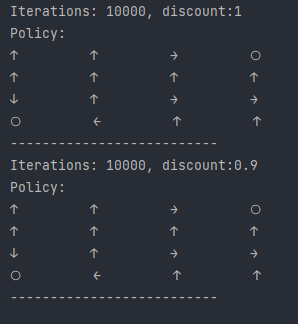
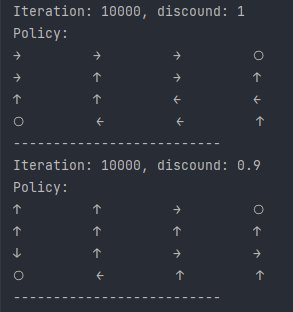
SarsaMax done and img uploaded

diff --git a/assignment_2/Agent.py b/assignment_2/Agent.py
@@ -7,20 +7,17 @@ from assignment_2.Policy import Policy
 
 
 class Agent:
-    def __init__(self, start_state, discount:float = 1, iteratie:int = 10000):
-        self.policy = Policy()
+    def __init__(self, start_state, discount: float = 1, iteratie: int = 10000):
+        self.policy = Policy(discount)
         self.maze = Maze()
         self.state = start_state
         self.discount = discount
         self.iteratie = iteratie
-        # self.optimal_policy = Agent(start_state).value_iteration()
-        self.optimal_policy = [[1, 1, 1, 4],
-                               [0, 0, 0, 0],
-                               [0, 0, 3, 3],
-                               [4, 0, 0, 0]]
 
     def value_function(self) -> None:
-        """This is the value function."""
+        """
+        This is the value function.
+        """
         location = self.state[0]
         table_for_next_loc = self.create_action_list(location)
         value = 0
@@ -38,26 +35,31 @@ class Agent:
         potential_actions = [[-1, 0], [0, 1], [1, 0], [0, -1]]
         for i in range(self.iteratie):
             discount = self.discount ** i
-            new_value_list = [[0, 0, 0, 0],     # Is to save the new values so that the old values can be used for
-                              [0, 0, 0, 0],     # the calculations.
+            new_value_list = [[0, 0, 0, 0],  # Is to save the new values so that the old values can be used for
+                              [0, 0, 0, 0],  # the calculations.
                               [0, 0, 0, 0],
                               [0, 0, 0, 0]]
-            for location in self.maze.locations:    # Loops through all states
-                actions = self.create_action_list(location) # Creates all possible action you van make in a state.
-                new_values = []     # List of all generated values.
+            for location in self.maze.locations:  # Loops through all states
+                actions = self.create_action_list(location)  # Creates all possible action you van make in a state.
+                new_values = []  # List of all generated values.
                 for action in actions:  # Loops through all possible actions.
 
                     next_loc = list(map(lambda x, y: x + y, location, action))
-                    new_values.append(self.maze.rewards[next_loc[0]][next_loc[1]] + discount * self.maze.value[next_loc[0]][next_loc[1]])
+                    new_values.append(
+                        self.maze.rewards[next_loc[0]][next_loc[1]] + discount * self.maze.value[next_loc[0]][
+                            next_loc[1]])
                 if not self.maze.done_list[location[0]][location[1]]:
                     max_value = max(new_values)
-                    new_value_list[location[0]][location[1]] = max_value    # Updates the value for the current state with the optimal value
-                    new_best_action = potential_actions.index(actions[new_values.index(max_value)])     # Selects the best action
-                    self.policy.actions_list[location[0]][location[1]] = new_best_action    # Saves the best possible action.
-            if new_value_list == self.maze.value:       # Breaks the loop if there are no more changes
+                    new_value_list[location[0]][
+                        location[1]] = max_value  # Updates the value for the current state with the optimal value
+                    new_best_action = potential_actions.index(
+                        actions[new_values.index(max_value)])  # Selects the best action
+                    self.policy.actions_list[location[0]][
+                        location[1]] = new_best_action  # Saves the best possible action.
+            if new_value_list == self.maze.value:  # Breaks the loop if there are no more changes
                 print(self.policy.__str__(self.policy.actions_list))
                 break
-            self.maze.value = new_value_list    # Updates value list.
+            self.maze.value = new_value_list  # Updates value list.
             self.action()
             self.__str__()
         return self.policy.actions_list
@@ -66,11 +68,11 @@ class Agent:
         """
         This is the monte carlo evaluation.
         """
-        values = [[0, 0, 0, 0],         # New values.
-                       [0, 0, 0, 0],
-                       [0, 0, 0, 0],
-                       [0, 0, 0, 0]]
-        value_times = [[0, 0, 0, 0],    # Times this state has been used for calculations.
+        values = [[0, 0, 0, 0],  # New values.
+                  [0, 0, 0, 0],
+                  [0, 0, 0, 0],
+                  [0, 0, 0, 0]]
+        value_times = [[0, 0, 0, 0],  # Times this state has been used for calculations.
                        [0, 0, 0, 0],
                        [0, 0, 0, 0],
                        [0, 0, 0, 0]]
@@ -78,15 +80,17 @@ class Agent:
             g = 0
             episodes = self.create_episode()
             discount = self.discount ** i
-            check = list(reversed(list(episodes.copy())))   # copy of episodes for checking purposes.
+            check = list(reversed(list(episodes.copy())))  # copy of episodes for checking purposes.
             for episode in reversed(list(episodes)):
                 state, action, reward = episode
                 x, y = state
-                check.remove(episode)   # removes state to check if there are more of the same states in the episodes
+                check.remove(episode)  # removes state to check if there are more of the same states in the episodes
                 g = discount * g + reward
-                if (check is None or episode not in check) and not self.maze.done_list[x][y]:   # is none is for the last state
+                if (check is None or episode not in check) and not self.maze.done_list[x][
+                    y]:  # is none is for the last state
                     value_times[x][y] += 1  # Add 1 to the times this state has been used for calculations
-                    values[x][y] = values[x][y] + (g-values[x][y])/value_times[x][y]    # Formula to add a number to a calculated average.
+                    values[x][y] = values[x][y] + (g - values[x][y]) / value_times[x][
+                        y]  # Formula to add a number to a calculated average.
         self.maze.value = values
         self.__str__()
 
@@ -95,17 +99,19 @@ class Agent:
             Temperal differance learning.
         """
         alpha = 1
+
         for i in range(self.iteratie):
             x, y = [random.randint(0, 3), random.randint(0, 3)]  # For random start
-            discount = self.discount ** i   # calculating discount
+            discount = self.discount ** i  # calculating discount
             while not self.maze.done_list[x][y]:
                 # action = random.randint(0, 3)       # for random policy
-                action = self.optimal_policy[x][y]  # for optimal policy
-                next_state, reward = self.maze.step([x,y], action)
+                action = self.policy.actions_list_optimal[x][y]  # for optimal policy
+                next_state, reward = self.maze.step([x, y], action)
                 current_val = self.maze.value[x][y]
                 next_val = self.maze.value[next_state[0]][next_state[1]]
-                self.maze.value[x][y] = current_val + alpha *(reward + discount*next_val - current_val)     # update value
-                x, y = next_state       # change x, y coordinates to the ones from the next state
+                self.maze.value[x][y] = current_val + alpha * (
+                            reward + discount * next_val - current_val)  # update value
+                x, y = next_state  # change x, y coordinates to the ones from the next state
         self.__str__()
 
     def monte_carlo_control(self) -> None:  # TODO
@@ -123,29 +129,31 @@ class Agent:
                        [0, 0, 0, 0],
                        [0, 0, 0, 0],
                        [0, 0, 0, 0]]
-        value_times_all_actions = [[[0, 0, 0, 0], [0, 0, 0, 0], [0, 0, 0, 0], [0, 0, 0, 0]],    # TODO remove if unnecessary
-                       [[0, 0, 0, 0], [0, 0, 0, 0], [0, 0, 0, 0], [0, 0, 0, 0]],
-                       [[0, 0, 0, 0], [0, 0, 0, 0], [0, 0, 0, 0], [0, 0, 0, 0]],
-                       [[0, 0, 0, 0], [0, 0, 0, 0], [0, 0, 0, 0], [0, 0, 0, 0]]]
+        value_times_all_actions = [[[0, 0, 0, 0], [0, 0, 0, 0], [0, 0, 0, 0], [0, 0, 0, 0]],
+                                   # TODO remove if unnecessary
+                                   [[0, 0, 0, 0], [0, 0, 0, 0], [0, 0, 0, 0], [0, 0, 0, 0]],
+                                   [[0, 0, 0, 0], [0, 0, 0, 0], [0, 0, 0, 0], [0, 0, 0, 0]],
+                                   [[0, 0, 0, 0], [0, 0, 0, 0], [0, 0, 0, 0], [0, 0, 0, 0]]]
         for i in range(self.iteratie):
-            g = 0   # start g
-            episodes = self.create_episode(epsilon=epsilon) # create episode
-            discount = self.discount ** i   # calculates the discount
-            check = list(reversed(list(episodes.copy())))   # copy of episodes for checking purposes
+            g = 0  # start g
+            episodes = self.create_episode(epsilon=epsilon)  # create episode
+            discount = self.discount ** i  # calculates the discount
+            check = list(reversed(list(episodes.copy())))  # copy of episodes for checking purposes
             for episode in reversed(list(episodes)):
                 state, action, reward = episode
                 x, y = state
-                check.remove(episode) # removes state to check if there are more of the same states in the episodes
+                check.remove(episode)  # removes state to check if there are more of the same states in the episodes
 
-                g = discount * g + reward       # calculate new g
+                g = discount * g + reward  # calculate new g
                 if (check is None or episode not in check) and not self.maze.done_list[x][
                     y]:  # is none is for the last state
-                    value_times[x][y] += 1 # Add 1 to the times this state has been used for calculations
-                    values[x][y] = values[x][y] + (g - values[x][y]) / value_times[x][y] # Formula to add a number to a calculated average.
+                    value_times[x][y] += 1  # Add 1 to the times this state has been used for calculations
+                    values[x][y] = values[x][y] + (g - values[x][y]) / value_times[x][
+                        y]  # Formula to add a number to a calculated average.
         self.maze.value = values
         self.__str__()
 
-    def sarsa(self) -> None:    # TODO
+    def sarsa(self) -> None:  # TODO
         """
         This is a SARSA function for policy control.
         """
@@ -160,20 +168,49 @@ class Agent:
         for i in range(self.iteratie):
             x, y = [random.randint(0, 3), random.randint(0, 3)]  # For random start
             discount = self.discount ** i  # calculating discount
-            action = self.soft_policy(self.policy.actions_list2[x][y])
+            action = self.soft_policy(self.policy.actions_list2[x][y], epsilon)
             while not self.maze.done_list[x][y]:
                 # action = self.optimal_policy[x][y]  # for optimal policy
                 if action in possible_actions:
                     next_state, reward = self.maze.step([x, y], action)
                     next_action = self.soft_policy(policy[next_state[0]][next_state[1]])
                     current_val = policy[x][y][action]
-                    next_val = self.maze.value[next_state[0]][next_state[1]]
+                    next_val = policy[next_state[0]][next_state[1]][next_action]
                     policy[x][y][action] = current_val + alpha * (reward + discount * next_val - current_val)
                     x, y = next_state
                     action = next_action
         self.policy.__str__(self.policy.actions_list2)
 
-    def create_episode(self, epsilon:int = 100) -> [list, int, int]:
+    def sarsa_max(self):
+        """
+        This is a SARSA Max/Q learning function for policy control.
+        """
+        alpha = 1
+        possible_actions = [0, 1, 2, 3]
+        epsilon = 93
+        policy = self.policy.actions_list2
+        values_list = [[[0, 0, 0, 0], [0, 0, 0, 0], [0, 0, 0, 0], [0, 0, 0, 0]],
+                       [[0, 0, 0, 0], [0, 0, 0, 0], [0, 0, 0, 0], [0, 0, 0, 0]],
+                       [[0, 0, 0, 0], [0, 0, 0, 0], [0, 0, 0, 0], [0, 0, 0, 0]],
+                       [[0, 0, 0, 0], [0, 0, 0, 0], [0, 0, 0, 0], [0, 0, 0, 0]]]
+        for i in range(self.iteratie):
+            x, y = [random.randint(0, 3), random.randint(0, 3)]  # For random start
+            discount = self.discount ** i  # calculating discount
+            action = self.soft_policy(self.policy.actions_list2[x][y], epsilon)
+            while not self.maze.done_list[x][y]:
+                # action = self.optimal_policy[x][y]  # for optimal policy
+                if action in possible_actions:
+                    next_state, reward = self.maze.step([x, y], action)
+                    next_action = self.soft_policy(policy[next_state[0]][next_state[1]], epsilon)
+                    current_val = policy[x][y][action]
+                    max_val_index = policy[next_state[0]][next_state[1]].index(max(policy[next_state[0]][next_state[1]]))
+                    next_val = policy[next_state[0]][next_state[1]][max_val_index]
+                    policy[x][y][action] = current_val + alpha * (reward + discount * next_val - current_val)
+                    x, y = next_state
+                    action = next_action
+        self.policy.__str__(self.policy.actions_list2)
+
+    def create_episode(self, epsilon: int = 100) -> [list, int, int]:
         """create episodes. Epsilon 100 is greedy, epsilon < 100 is soft_policy"""
         episodes = []
         done = False
@@ -181,7 +218,7 @@ class Agent:
         while not done:
             action_list = [0, 1, 2, 3]
             # action = random.randint(0,3)        # random
-            action = self.optimal_policy[state[0]][state[1]]
+            action = self.policy.actions_list_optimal[state[0]][state[1]]
             if action in action_list:
                 chance = random.randint(0, 100)
                 action_list.pop(action)
@@ -193,22 +230,7 @@ class Agent:
             done = self.maze.done_list[state[0]][state[1]]
         return episodes
 
-    # def create_episode(self) -> [list, int, int]:
-    #     """create episodes. Epsilon 100 is greedy, epsilon < 100 is soft_policy"""
-    #     episodes = []
-    #     done = False
-    #     state = [random.randint(0, 3), random.randint(0, 3)]  # random start
-    #     while not done:
-    #         # action = random.randint(0,3)        # random
-    #         action = self.optimal_policy[state[0]][state[1]]
-    #         next_state, reward = self.maze.step(state, action)
-    #         episodes.append([state, action, reward])
-    #         state = next_state
-    #         done = self.maze.done_list[state[0]][state[1]]
-    #     return episodes
-
-
-    def soft_policy(self, actions, epsilon:int =92) -> int:
+    def soft_policy(self, actions, epsilon: int = 92) -> int:
         """
         Simple soft poolicy that chances the action into a new random action based on the likely hood presented by
         epsilon
@@ -224,15 +246,15 @@ class Agent:
 
     def Q_soft_policy(self, actions) -> int:
         chance = random.random()
-        if actions[0]+actions[1]+actions[2]+actions[3] == 0:
+        if actions[0] + actions[1] + actions[2] + actions[3] == 0:
             return 4
         if chance < actions[0]:
             return 0
-        elif chance < actions[0]+actions[1]:
+        elif chance < actions[0] + actions[1]:
             return 1
-        elif chance < actions[0]+actions[1]+actions[2]:
+        elif chance < actions[0] + actions[1] + actions[2]:
             return 2
-        elif chance <= actions[0]+actions[1]+actions[2]+actions[3]:
+        elif chance <= actions[0] + actions[1] + actions[2] + actions[3]:
             return 3
 
     def create_action_list(self, location) -> list:
@@ -260,13 +282,13 @@ class Agent:
         x, y = self.state[0]
         action = self.policy.pick_action(self.maze.value, self.state)
         if action == 0:
-            self.state[0] = [x-1, y]
+            self.state[0] = [x - 1, y]
         elif action == 1:
-            self.state[0] = [x, y+1]
+            self.state[0] = [x, y + 1]
         elif action == 2:
-            self.state[0] = [x+1, y]
+            self.state[0] = [x + 1, y]
         elif action == 3:
-            self.state[0] = [x, y-1]
+            self.state[0] = [x, y - 1]
 
     def __str__(self) -> None:
         """

diff --git a/assignment_2/Policy.py b/assignment_2/Policy.py
@@ -3,20 +3,31 @@ import random
 
 class Policy:
     """This class defines the action that will be taken in each state"""
-    def __init__(self):
+
+    def __init__(self, discount:float = 1):
+        self.discount = discount
         self.actions = [[-1, 0], [0, 1], [1, 0], [0, -1]]
         self.actions_list = [[0, 0, 0, 4],
                              [0, 0, 0, 0],
                              [0, 0, 0, 0],
                              [4, 0, 0, 0]]  # 4 is done to print the circle in the terminal
-        self.actions_list2 = [[[0.25,0.25,0.25,0.25],[0.25,0.25,0.25,0.25],[0.25,0.25,0.25,0.25],[0,0,0,0]],
-                              [[0.25,0.25,0.25,0.25],[0.25,0.25,0.25,0.25],[0.25,0.25,0.25,0.25],[0.25,0.25,0.25,0.25]],
-                              [[0.25,0.25,0.25,0.25],[0.25,0.25,0.25,0.25],[0.25,0.25,0.25,0.25],[0.25,0.25,0.25,0.25]],
-                              [[0,0,0,0],[0.25,0.25,0.25,0.25],[0.25,0.25,0.25,0.25],[0.25,0.25,0.25,0.25]]]
-        self.actions_list2_greedy = [[0.025, 0.925, 0.025, 0.025],[0.025, 0.925, 0.025, 0.025],[0.025, 0.925, 0.025, 0.025],[0, 0, 0, 0],
-                                     [0.925, 0.025, 0.025, 0.025], [0.925, 0.025, 0.025, 0.025], [0.925, 0.025, 0.025, 0.025], [0.925, 0.025, 0.025, 0.025],
-                                     [0.925, 0.025, 0.025, 0.025], [0.925, 0.025, 0.025, 0.025], [0.025, 0.025, 0.025, 0.925], [0.025, 0.025, 0.025, 0.925],
-                                     [0, 0, 0, 0], [0.925, 0.025, 0.025, 0.025], [0.925, 0.025, 0.025, 0.025], [0.925, 0.025, 0.025, 0.025],]
+        self.actions_list_optimal = [[1, 1, 1, 4],
+                                     [0, 0, 0, 0],
+                                     [0, 0, 3, 3],
+                                     [4, 0, 0, 0]]
+        self.actions_list2 = [
+            [[0.25, 0.25, 0.25, 0.25], [0.25, 0.25, 0.25, 0.25], [0.25, 0.25, 0.25, 0.25], [0, 0, 0, 0]],
+            [[0.25, 0.25, 0.25, 0.25], [0.25, 0.25, 0.25, 0.25], [0.25, 0.25, 0.25, 0.25], [0.25, 0.25, 0.25, 0.25]],
+            [[0.25, 0.25, 0.25, 0.25], [0.25, 0.25, 0.25, 0.25], [0.25, 0.25, 0.25, 0.25], [0.25, 0.25, 0.25, 0.25]],
+            [[0, 0, 0, 0], [0.25, 0.25, 0.25, 0.25], [0.25, 0.25, 0.25, 0.25], [0.25, 0.25, 0.25, 0.25]]]
+        self.actions_list2_greedy = [[0.025, 0.925, 0.025, 0.025], [0.025, 0.925, 0.025, 0.025],
+                                     [0.025, 0.925, 0.025, 0.025], [0, 0, 0, 0],
+                                     [0.925, 0.025, 0.025, 0.025], [0.925, 0.025, 0.025, 0.025],
+                                     [0.925, 0.025, 0.025, 0.025], [0.925, 0.025, 0.025, 0.025],
+                                     [0.925, 0.025, 0.025, 0.025], [0.925, 0.025, 0.025, 0.025],
+                                     [0.025, 0.025, 0.025, 0.925], [0.025, 0.025, 0.025, 0.925],
+                                     [0, 0, 0, 0], [0.925, 0.025, 0.025, 0.025], [0.925, 0.025, 0.025, 0.025],
+                                     [0.925, 0.025, 0.025, 0.025], ]
 
     def pick_action(self, values, state) -> int:
         """
@@ -48,12 +59,14 @@ class Policy:
                 if j == 3:
                     actions.pop(1)
 
-                self.actions_list[i][j] = random.choice(actions) if self.actions_list[i][j] == 0 else self.actions_list[i][j]
+                self.actions_list[i][j] = random.choice(actions) if self.actions_list[i][j] == 0 else \
+                self.actions_list[i][j]
 
-    def __str__(self, action_list:list) -> None:
+    def __str__(self, action_list: list) -> None:
         """
         Prints a grid of the action that are to be taken in each state.
         """
+        print(f"Iteration: 10000, discound: {self.discount}")
         if isinstance(action_list[0][0], list):
             arrow_list = ["↑", "→", "↓", "←", "○"]  # List of symbols that resemble each action.
             print("Policy:")

diff --git a/assignment_2/main.py b/assignment_2/main.py
@@ -11,5 +11,7 @@ if __name__ == "__main__":
     # agent2.td_evaluation()
     # agent1.monte_carlo_control()
     # agent2.monte_carlo_control()
-    agent1.sarsa()
-    agent2.sarsa()
+    # agent1.sarsa()
+    # agent2.sarsa()
+    agent1.sarsa_max()
+    agent2.sarsa_max()
